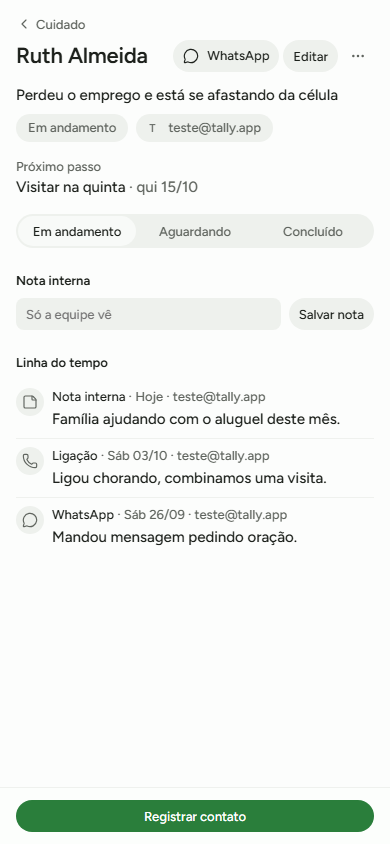
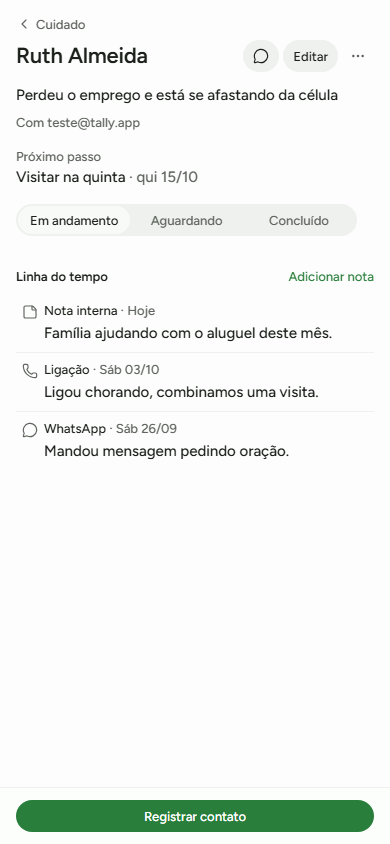
style(cuidado): ficha mais leve, sem chips repetidos, nota sob demanda e linha do tempo sem círculos

diff --git a/src/features/care/components/CareProfile.tsx b/src/features/care/components/CareProfile.tsx
@@ -22,7 +22,6 @@ import { GROUP_LABEL, statusGroup } from "../domain";
 import type { CareDetail, ContactKind, StaffOption, StatusGroup } from "../types";
 import { ContactForm, Timeline } from "./Parts";
 import people from "@/features/sticks/people.module.css";
-import g from "@/features/groups/groups.module.css";
 import m from "@/features/ministries/ministries.module.css";
 import e from "@/features/encontros/encontros.module.css";
 import c from "../care.module.css";
@@ -79,6 +78,7 @@ export function CareProfile({
   const [newId, setNewId] = useState<string | null>(null);
   const [undo, setUndo] = useState<StatusGroup | null>(null);
   const [note, setNote] = useState("");
+  const [noting, setNoting] = useState(false);
   const undoTimer = useRef<number | undefined>(undefined);
   useEffect(() => {
     setKind(lastKind());
@@ -136,6 +136,7 @@ export function CareProfile({
     const r = await addNoteAction(id, note);
     if (!r.success) return void setErr(r.message);
     setNote("");
+    setNoting(false);
     setNewId(r.data.timeline.find((t) => !before.has(t.id))?.id ?? null);
     onDetail(r.data);
   }
@@ -149,7 +150,7 @@ export function CareProfile({
   const actions = (
     <span className={e.actions}>
       {!editing && phone ? (
-        <a className={`btn ghost sm ${c.btnLink}`} href={phone} target="_blank" rel="noreferrer"><UiIcon icon={MessageCircle} />WhatsApp</a>
+        <a className={`btn ghost sm ${c.btnLink}`} href={phone} target="_blank" rel="noreferrer" aria-label="WhatsApp"><UiIcon icon={MessageCircle} /><span className={c.waText}>WhatsApp</span></a>
       ) : null}
       {editing ? <button type="button" className={people.primary} onClick={() => onEditing(false)}>Pronto</button> : <button type="button" className="btn ghost sm" onClick={() => onEditing(true)}>Editar</button>}
       {canManage ? (
@@ -219,11 +220,10 @@ export function CareProfile({
       {head}
       {err ? <p className={people.fErr} role="alert">{err}</p> : null}
       <p className={c.why}>{detail.reason || <span className={c.muted}>Sem motivo ainda</span>}</p>
-      <div className={g.chips}>
-        <span className={g.chip}>{GROUP_LABEL[group]}</span>
-        {detail.assignedName ? <span className={g.chip}><Avatar name={detail.assignedName} size={24} className={c.chipFace} />{detail.assignedName}</span> : <span className={g.chip}>Sem responsável</span>}
-        {detail.confidential ? <span className={g.chip}><UiIcon icon={Lock} />Sigiloso</span> : null}
-      </div>
+      <p className={c.meta}>
+        {detail.assignedName ? `Com ${detail.assignedName}` : "Sem responsável"}
+        {detail.confidential ? <span className={c.metaLock}><UiIcon icon={Lock} />Sigiloso</span> : null}
+      </p>
       {detail.confidential ? <p className={c.secret}>{SECRET}</p> : null}
 
       <div className={c.next}>
@@ -256,17 +256,18 @@ export function CareProfile({
         <ContactForm kind={kind} onKind={pickKind} onSave={contact} />
       </section>
 
-      <section className={people.sec} aria-labelledby="sec-note">
-        <h2 id="sec-note" className={people.secTitle}>Nota interna</h2>
-        <div className={c.noteRow}>
-          <input className={people.fInput} value={note} maxLength={2000} placeholder="Só a equipe vê" aria-label="Nota interna" onChange={(ev) => setNote(ev.target.value)} onKeyDown={(ev) => ev.key === "Enter" && void addNote()} />
-          <button type="button" className={`btn ghost sm ${c.nowrap}`} disabled={!note.trim()} onClick={() => void addNote()}>Salvar nota</button>
-        </div>
-      </section>
-
       <section className={people.sec} aria-labelledby="sec-tl">
-        <h2 id="sec-tl" className={people.secTitle}>Linha do tempo</h2>
-        <Timeline entries={detail.timeline} newId={newId} today={today} />
+        <div className={c.secHead}>
+          <h2 id="sec-tl" className={people.secTitle}>Linha do tempo</h2>
+          {noting ? null : <button type="button" className="link" onClick={() => setNoting(true)}>Adicionar nota</button>}
+        </div>
+        {noting ? (
+          <div className={c.noteRow}>
+            <input className={people.fInput} value={note} maxLength={2000} autoFocus placeholder="Nota interna, só a equipe vê" aria-label="Nota interna" onChange={(ev) => setNote(ev.target.value)} onKeyDown={(ev) => { if (ev.key === "Enter") void addNote(); if (ev.key === "Escape") { setNote(""); setNoting(false); } }} />
+            <button type="button" className={`btn ghost sm ${c.nowrap}`} disabled={!note.trim()} onClick={() => void addNote()}>Salvar</button>
+          </div>
+        ) : null}
+        <Timeline entries={detail.timeline} newId={newId} today={today} owner={detail.assignedName} />
       </section>
 
       <div className={c.dock}>

diff --git a/src/features/care/care.module.css b/src/features/care/care.module.css
@@ -175,9 +175,6 @@
   line-height: var(--lh-15);
   overflow-wrap: anywhere;
 }
-.chipFace {
-  margin-left: calc(-1 * var(--s-2));
-}
 .secret {
   margin: var(--s-2) 0 0;
   font-size: var(--t-13);
@@ -208,12 +205,47 @@
   gap: var(--s-1);
 }
 
+/* Meta: responsável e sigilo em texto, sem chips */
+.meta {
+  display: flex;
+  flex-wrap: wrap;
+  align-items: center;
+  gap: var(--s-1) var(--s-3);
+  margin: var(--s-2) 0 0;
+  font-size: var(--t-13);
+  line-height: var(--lh-13);
+  color: var(--text-2);
+}
+.metaLock {
+  display: inline-flex;
+  align-items: center;
+  gap: var(--s-1);
+}
+.metaLock svg {
+  width: 14px;
+  height: 14px;
+}
+.secHead {
+  display: flex;
+  align-items: baseline;
+  justify-content: space-between;
+  gap: var(--s-3);
+}
+.secHead + .noteRow {
+  margin-bottom: var(--s-2);
+}
+@media (max-width: 40rem) {
+  .waText {
+    display: none;
+  }
+}
+
 /* Status: a pílula desliza para a opção escolhida */
 .seg {
   position: relative;
   display: grid;
   grid-template-columns: repeat(3, 1fr);
-  max-width: 24rem;
+  width: fit-content;
   margin-top: var(--s-4);
   padding: 2px;
   border-radius: var(--r-pill);
@@ -232,7 +264,8 @@
 }
 .segBtn {
   position: relative;
-  min-height: 1.875rem;
+  min-height: 1.75rem;
+  padding: 0 var(--s-3);
   border: 0;
   border-radius: var(--r-pill);
   background: none;
@@ -284,7 +317,7 @@
 }
 .tlItem {
   display: grid;
-  grid-template-columns: 1.75rem minmax(0, 1fr);
+  grid-template-columns: 1.25rem minmax(0, 1fr);
   gap: var(--s-2);
   padding: var(--s-2) 0;
   border-bottom: 1px solid color-mix(in srgb, var(--border) 60%, transparent);
@@ -305,9 +338,7 @@
   display: grid;
   place-items: center;
   width: 1.75rem;
-  height: 1.75rem;
-  border-radius: var(--r-pill);
-  background: var(--surface-2);
+  height: 1.25rem;
   color: var(--text-2);
 }
 .tlBody {

diff --git a/src/features/care/components/Parts.tsx b/src/features/care/components/Parts.tsx
@@ -52,7 +52,8 @@ function when(at: string, today: string): string {
   return n === 0 ? "Hoje" : n === 1 ? "Ontem" : shortDate(d);
 }
 
-export function Timeline({ entries, newId, today }: { entries: TimelineEntry[]; newId: string | null; today: string }) {
+// `owner` = responsável do caso: o nome dele não se repete em cada linha.
+export function Timeline({ entries, newId, today, owner }: { entries: TimelineEntry[]; newId: string | null; today: string; owner: string }) {
   if (!entries.length) return <p className={c.none}>Nenhum contato ainda. O primeiro registro aparece aqui.</p>;
   return (
     <ul className={c.tl}>
@@ -62,7 +63,7 @@ export function Timeline({ entries, newId, today }: { entries: TimelineEntry[]; 
           <span className={c.tlBody}>
             <span className={c.tlHead}>
               {t.kind === "note" ? "Nota interna" : t.method ? CONTACT_LABEL[t.method] : "Contato"}
-              <span className={c.muted}> · {when(t.at, today)}{t.byName ? ` · ${t.byName}` : ""}</span>
+              <span className={c.muted}> · {when(t.at, today)}{t.byName && t.byName !== owner ? ` · ${t.byName}` : ""}</span>
             </span>
             {t.text ? <span className={c.tlText}>{t.text}</span> : null}
           </span>
